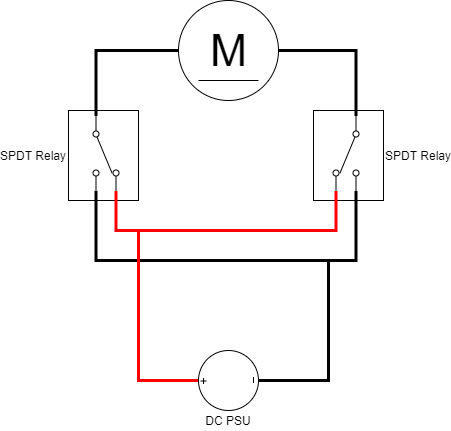
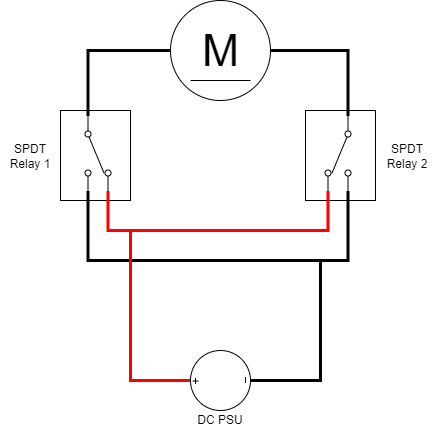
minor update to cover wiring docs

diff --git a/docs/FunctionBlocks/FB_OUTPUT_COVER_MQTT.md b/docs/FunctionBlocks/FB_OUTPUT_COVER_MQTT.md
@@ -118,7 +118,7 @@ FB_DO_COVER_001(
 ```
 
 ### __Wiring__
-Using simple SPDT relays it's possible to wire a AC or DC motor so that shortciruiting the motor is impossible. 
+Using two SPDT relays it's possible to wire an AC or DC motor so that shortciruiting the motor is impossible. 
 
 AC Wiring                   | DC Wiring
 :--------------------------:|:-------------------------:
@@ -129,7 +129,7 @@ To integrate with Home Assistant use the YAML code below in your [MQTT cover](ht
 
 ```YAML
 - platform: mqtt 
-  name: "FB_DO_COVER_001" 
+  name: "FB_DO_COVER_001"
   command_topic: "WAGO-PFC200/In/Covers/FB_DO_COVER_001" 
   position_topic: "WAGO-PFC200/Out/Covers/FB_DO_COVER_001" 
   set_position_topic: "WAGO-PFC200/In/Covers/FB_DO_COVER_001" 
